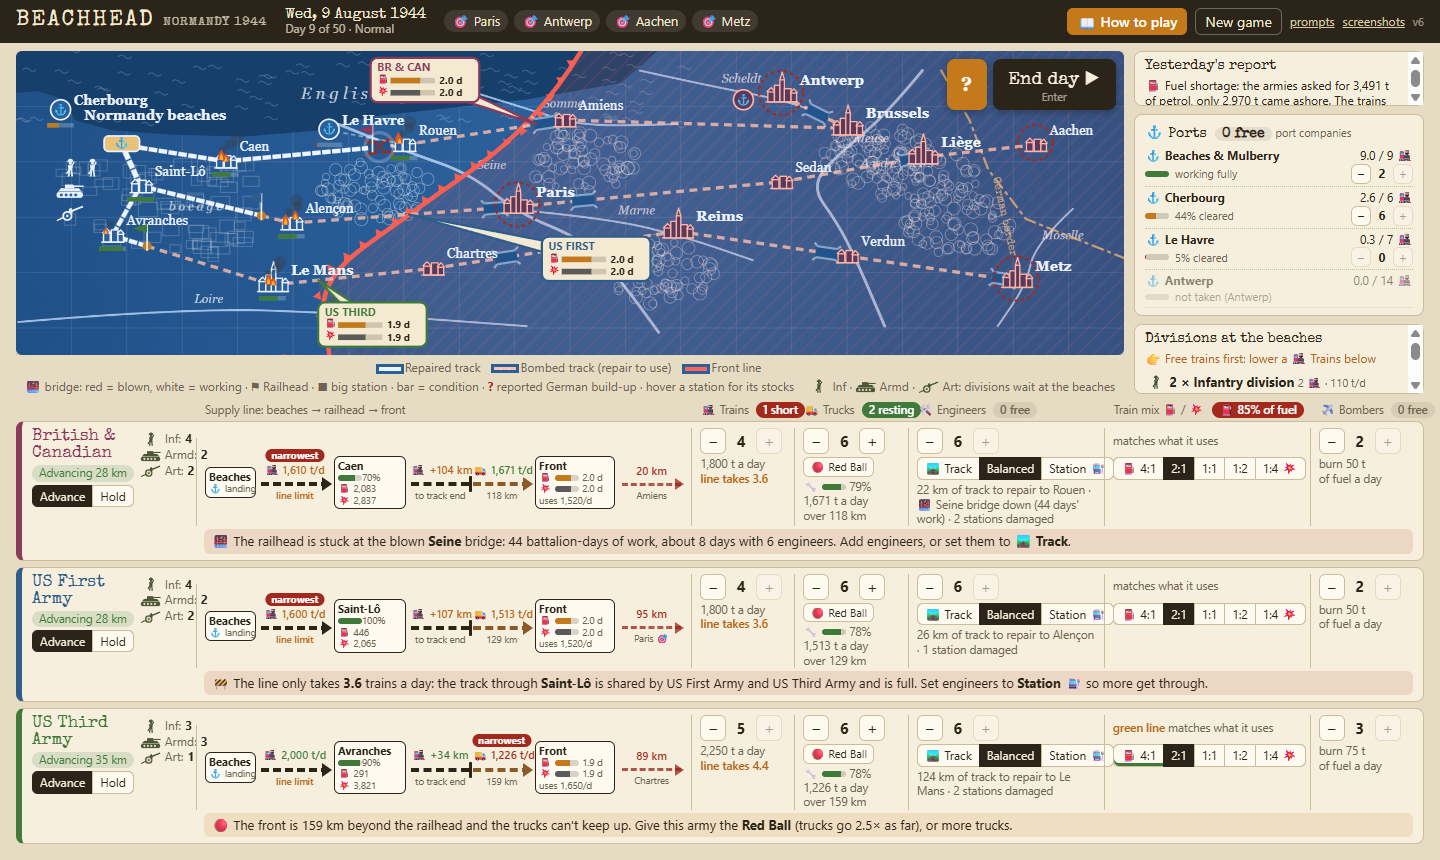
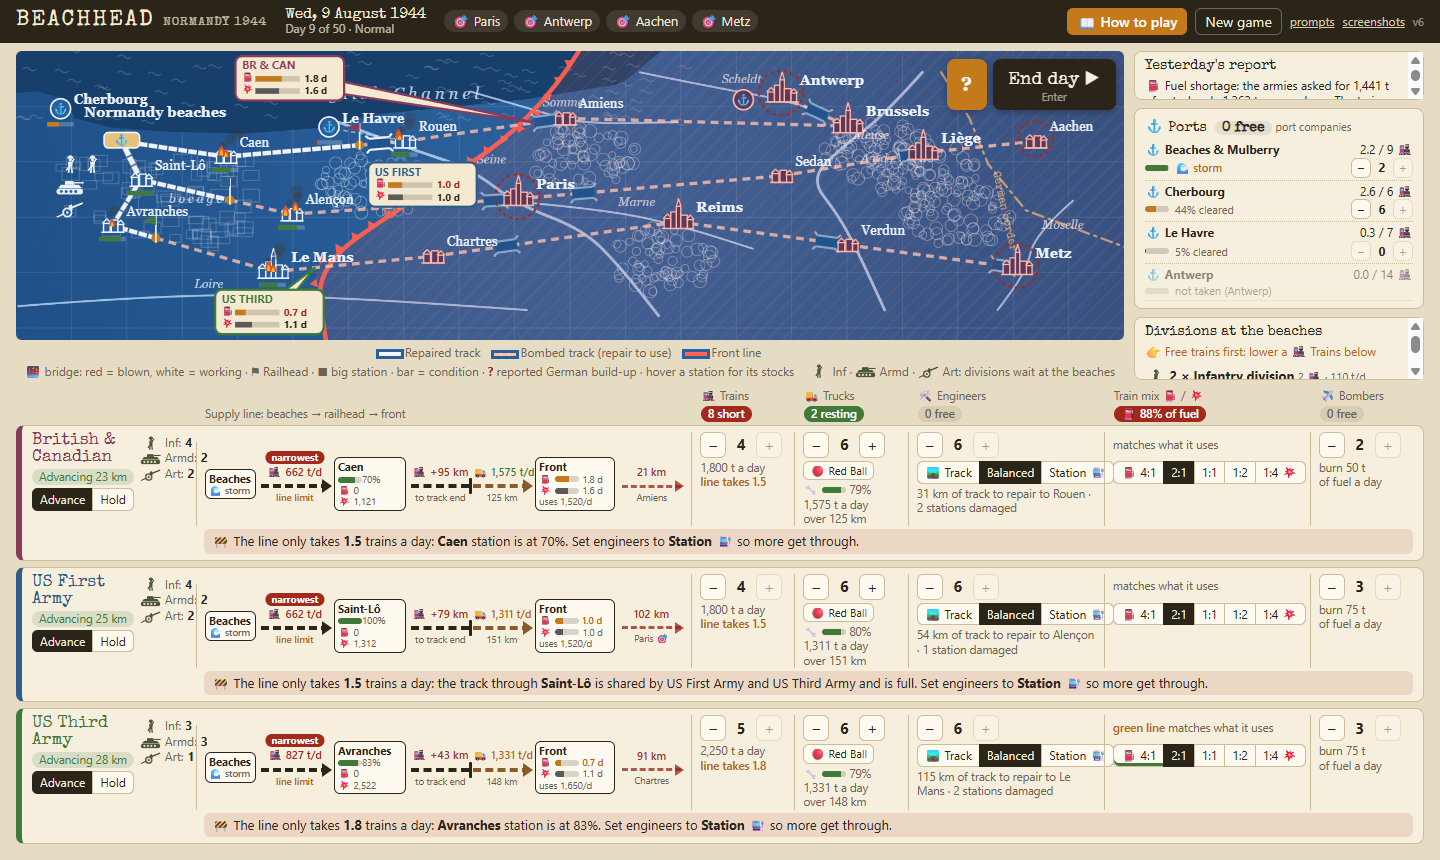
Column counts under their names; side boxes without scrolling (short report with more link, one-line ports and divisions)

diff --git a/js/ui.js b/js/ui.js
@@ -431,16 +431,15 @@ const UI = (() => {
       const P = PORTS[id], ps = st.ports[id];
       const now = Sim.portTrains(st, id);
       let status;
-      if (!ps.taken) status = `not taken (${NODES[P.takenWith].name})`;
-      else if (ps.scheldt < 100) status = `<span class="warn">Scheldt mined: ${Math.round(ps.scheldt)}% clear</span>`;
+      if (!ps.taken) status = 'not taken';
+      else if (ps.scheldt < 100) status = `<span class="warn">Scheldt ${Math.round(ps.scheldt)}%</span>`;
       else if (P.beach && st.storm > 0) status = '<span class="warn">🌊 storm</span>';
-      else if (ps.cond < 100) status = `${Math.round(ps.cond)}% cleared`;
-      else status = 'working fully';
+      else if (ps.cond < 100) status = `${Math.round(ps.cond)}%`;
+      else status = 'full';
       const c = Math.round(ps.cond), col = c > 66 ? 'var(--good)' : c > 33 ? 'var(--fuel)' : 'var(--bad)';
       const row = el('div', 'port' + (ps.taken ? '' : ' dim'));
       row.title = P.hint;
-      row.innerHTML = `<div class="port-top"><b>⚓ ${P.name}</b><span>${now.toFixed(1)} / ${P.trains} 🚂</span></div>
-        <div class="port-mid"><span class="bar"><i style="width:${ps.taken ? c : 0}%;background:${col}"></i></span><span class="muted">${status}</span></div>`;
+      row.innerHTML = `<div class="port-mid"><b class="port-name">⚓ ${P.name.replace('Beaches & Mulberry', 'Beaches')}</b><span class="bar"><i style="width:${ps.taken ? c : 0}%;background:${col}"></i></span><span class="muted">${status}</span><span class="port-n">${now.toFixed(1)}/${P.trains}</span></div>`;
       if (ps.taken) {
         const step = el('span', 'step small');
         const minus = el('button', '', '−'), val = el('b', '', String(ps.companies)), plus = el('button', '', '+');
@@ -458,20 +457,22 @@ const UI = (() => {
     const res = $('#reserves');
     res.textContent = '';
     if (!st.reserves.length && !st.queue.length) res.append(el('p', 'muted', 'No units waiting. More arrive over the coming weeks.'));
-    if (st.reserves.length && Sim.freeTrains(st) < 2) res.append(el('p', 'res-hint', '👉 Free trains first: lower a 🚂 Trains below'));
+    if (st.reserves.length && Sim.freeTrains(st) < 2) res.append(el('p', 'res-hint', '👉 free trains first (lower a 🚂 below)'));
     for (const type of UNIT_ORDER) {
       const units = st.reserves.filter(u => u.type === type);
       if (!units.length) continue;
       const T = UNIT_TYPES[type];
       const row = el('div', 'unit');
-      row.append(el('div', '', `${unitIcon(type)} <b>${units.length} × ${T.name}</b> <span class="muted cost">${T.trains} 🚂 · ${T.need.advance.fuel + T.need.advance.ammo} t/d</span>`));
-      const btns = el('div', 'send');
+      row.append(el('span', 'unit-name', `${unitIcon(type)} <b>${units.length} × ${T.short}</b>`));
+      row.title = `${T.name}: each takes ${T.trains} trains to send, then uses ${T.need.advance.fuel + T.need.advance.ammo} t a day`;
+      const btns = el('span', 'send');
       btns.title = `Each takes ${T.trains} trains to send, then uses ${T.need.advance.fuel + T.need.advance.ammo} t a day`;
       for (const sec of st.sectors) {
-        const b = el('button', '', '→ ' + Sim.sectorDef(sec.id).name);
+        // Short labels so a whole division type fits on one line; the full army name is in the hover text
+        const b = el('button', '', { north: 'Br', centre: '1st', south: '3rd' }[sec.id] || Sim.sectorDef(sec.id).name);
         b.style.setProperty('--sec', Sim.sectorDef(sec.id).colour);
         b.disabled = Sim.freeTrains(st) < T.trains;
-        b.title = b.disabled ? `Free ${T.trains} trains first (take them off a sector's supply trains)` : `Load one on the next trains to ${Sim.sectorDef(sec.id).name}`;
+        b.title = b.disabled ? `Free ${T.trains} trains first (take them off an army's supply trains), then send one to ${Sim.sectorDef(sec.id).name}` : `Send one to ${Sim.sectorDef(sec.id).name} on the next trains`;
         b.onclick = () => { Sim.sendUnit(st, units[0].id, sec.id); onChange(); };
         btns.append(b);
       }
@@ -480,7 +481,7 @@ const UI = (() => {
     }
     for (const q of st.queue) {
       const row = el('div', 'unit queued');
-      row.append(el('span', '', `${unitIcon(q.type)} <b>${UNIT_TYPES[q.type].name}</b> <span class="muted">loading for ${Sim.sectorDef(q.sector).name}</span> `));
+      row.append(el('span', 'unit-name', `${unitIcon(q.type)} <b>${UNIT_TYPES[q.type].short}</b> <span class="muted">loading → ${Sim.sectorDef(q.sector).short || Sim.sectorDef(q.sector).name}</span>`));
       if (q.loaded === 0) {
         const b = el('button', 'tiny', 'Cancel');
         b.onclick = () => { Sim.cancelUnit(st, q.id); onChange(); };
@@ -492,8 +493,14 @@ const UI = (() => {
     // Yesterday's report
     const rep = $('#report');
     rep.textContent = '';
-    if (st.intel) rep.append(el('li', 'intel', st.intel.text));
-    for (const line of st.report) rep.append(el('li', '', line));
+    const lines = (st.intel ? [st.intel.text] : []).concat(st.report);
+    const showAll = rep.dataset.all === String(st.day);
+    lines.slice(0, showAll ? lines.length : 2).forEach((line, k) => rep.append(el('li', k === 0 && st.intel ? 'intel' : '', line)));
+    if (lines.length > 2 && !showAll) {
+      const more = el('li', 'more', `+ ${lines.length - 2} more`);
+      more.onclick = () => { rep.dataset.all = String(st.day); update(); };
+      rep.append(more);
+    }
 
     $('#end-btn').disabled = st.won || st.lost;
     faceRight(document.body);

diff --git a/index.html b/index.html
@@ -44,7 +44,7 @@
   #ver { font-size: 11px; opacity: .55; }
 
   /* Top: the map with the report and reserves beside it */
-  #top { flex: 1 1 0; min-height: 300px; display: flex; gap: 10px; padding: 8px 16px 0; }
+  #top { flex: 1 0 auto; min-height: 300px; display: flex; gap: 10px; padding: 8px 16px 0; }
   .mapwrap { flex: 1 1 auto; min-width: 0; display: flex; flex-direction: column; align-items: center; }
   .mapbox { position: relative; line-height: 0; flex: 1 1 0; min-height: 0; width: 100%; overflow: hidden; }
   .mapbox .frame { position: relative; }
@@ -61,24 +61,30 @@
   .lg-broad { width: 22px; height: 0; border-top: 3px dashed rgba(255,190,170,.95); box-shadow: 0 0 0 3px #2a5f9a; }
   .lg-front { width: 22px; height: 4px; background: rgba(255,95,80,.95); box-shadow: 0 0 0 3px #2a5f9a; }
 
-  #side { flex: 0 0 320px; display: flex; flex-direction: column; gap: 8px; min-height: 0; overflow: hidden; }
+  #side { flex: 0 0 330px; display: flex; flex-direction: column; gap: 6px; min-height: 0; }
   .box { background: var(--panel); border: 1px solid var(--line); border-radius: 8px; padding: 7px 10px; min-height: 0; overflow: auto; }
   .box h2 { margin: 0 0 4px; font: 14px "Special Elite", monospace; }
-  .box.report { flex: 1 1 0; min-height: 48px; }
-  .box.reserves { flex: 1.4 1 0; min-height: 60px; }
+  .box.report { flex: 0 0 auto; overflow: visible; }
+  #side .box { overflow: visible; }
+  .box.reserves { flex: 0 0 auto; }
+  #report li.more { cursor: pointer; color: var(--accent); border-bottom: 0; }
   .box.ports { flex: 0 0 auto; }
   .port { padding: 2px 0; border-bottom: 1px dotted var(--line); font-size: 12px; }
   .port.dim { opacity: .55; }
   .port-top { display: flex; justify-content: space-between; gap: 6px; }
   .port-mid { display: flex; align-items: center; gap: 6px; }
-  .port-mid .muted { flex: 1; font-size: 11px; }
+  .port-mid .muted { flex: 1; font-size: 11px; white-space: nowrap; }
+  .port-name { width: 92px; flex: none; white-space: nowrap; }
+  .port-n { font-size: 11px; width: 44px; text-align: right; }
   .step.small button { width: 20px; height: 20px; font-size: 13px; }
   .step.small b { min-width: 14px; font-size: 12px; }
   #report { margin: 0; padding-left: 0; list-style: none; font-size: 12px; line-height: 1.3; }
   #report li { padding: 1px 0; border-bottom: 1px dotted var(--line); }
   #report li.intel { color: var(--bad); font-weight: 600; }
-  #reserves .unit { padding: 3px 0; border-bottom: 1px dotted var(--line); font-size: 13px; }
-  .send { display: flex; gap: 4px; margin-top: 2px; align-items: center; flex-wrap: wrap; }
+  #reserves .unit { padding: 2px 0; border-bottom: 1px dotted var(--line); font-size: 13px; display: flex; align-items: center; justify-content: space-between; gap: 6px; }
+  #reserves .unit-name { white-space: nowrap; }
+  .send { display: flex; gap: 3px; align-items: center; }
+  .send button { padding: 0 5px !important; font-size: 11px !important; }
   #reserves .cost { font-size: 11px; }
   .send button { border-left: 4px solid var(--sec); font-size: 12px; padding: 1px 7px; }
   .res-hint { margin: 0 0 4px; font-size: 12px; color: var(--warn); }
@@ -93,7 +99,9 @@
   .c-name { padding-right: 8px; }
   .brow.head { font-size: 11.5px; color: var(--muted); padding: 0 10px 3px 16px; align-items: end; }
   .brow.head b { color: var(--ink); }
-  .brow.head > span { white-space: nowrap; }
+  /* Each column's name with its count underneath, so long counts never run into the next column */
+  .brow.head > span { white-space: nowrap; display: flex; flex-direction: column; align-items: flex-start; justify-content: flex-end; gap: 2px; min-width: 0; }
+  .brow.head .free { margin-left: 0; }
   .free { display: inline-block; margin-left: 4px; padding: 0 7px; border-radius: 9px; background: rgba(40,30,15,.08); font-weight: 600; }
   .free.have { background: var(--good); color: #fff; }
   .free.short { background: var(--bad); color: #fff; }
@@ -266,12 +274,12 @@
 <div id="board">
   <div class="brow head">
     <span></span>
-    <span class="h-pipe">Supply line: beaches → railhead → front</span>
-    <span>🚂 Trains <span class="free" id="free-trains"></span></span>
-    <span>🚚 Trucks <span class="free" id="free-trucks"></span></span>
-    <span>🛠 Engineers <span class="free" id="free-engineers"></span></span>
-    <span class="h-mix">Train mix ⛽ / 💥 <span id="fuel-state"></span></span>
-    <span>✈ Bombers <span class="free" id="free-bombers"></span></span>
+    <span class="h-pipe"><span>Supply line: beaches → railhead → front</span></span>
+    <span><span>🚂 Trains</span><span class="free" id="free-trains"></span></span>
+    <span><span>🚚 Trucks</span><span class="free" id="free-trucks"></span></span>
+    <span><span>🛠 Engineers</span><span class="free" id="free-engineers"></span></span>
+    <span class="h-mix"><span>Train mix ⛽ / 💥</span><span id="fuel-state"></span></span>
+    <span><span>✈ Bombers</span><span class="free" id="free-bombers"></span></span>
   </div>
   <div id="sectors"></div>
 </div>

diff --git a/PROMPTS.md b/PROMPTS.md
@@ -79,6 +79,11 @@ Bombing the reported build-ups doesn't help yet (it wins less than leaving thing
 - The adviser warns about worn trucks and suggests the Red Ball when the front is far beyond the railhead
 - Balance (150 games each): leaving everything alone now almost always loses; pausing to stock up wins 97% on Easy, 77% on Normal, 20% on Hard; resting trucks well 99% / 97% / 53%; the Red Ball 94% / 82% / 52%
 
+## 7. Tidy-ups
+
+- The column counts overlapped ("2 resting" ran into Engineers): each column's count now sits under its name
+- No scrolling in the two top-right boxes: the report shows its two most important lines with "+ N more" to open the rest; ports are one line each; each division type is one line with short send buttons (Br, 1st, 3rd); the boxes grow instead of scrolling
+
 ## Sessions
 
 | # | Date | Length | What we did |
